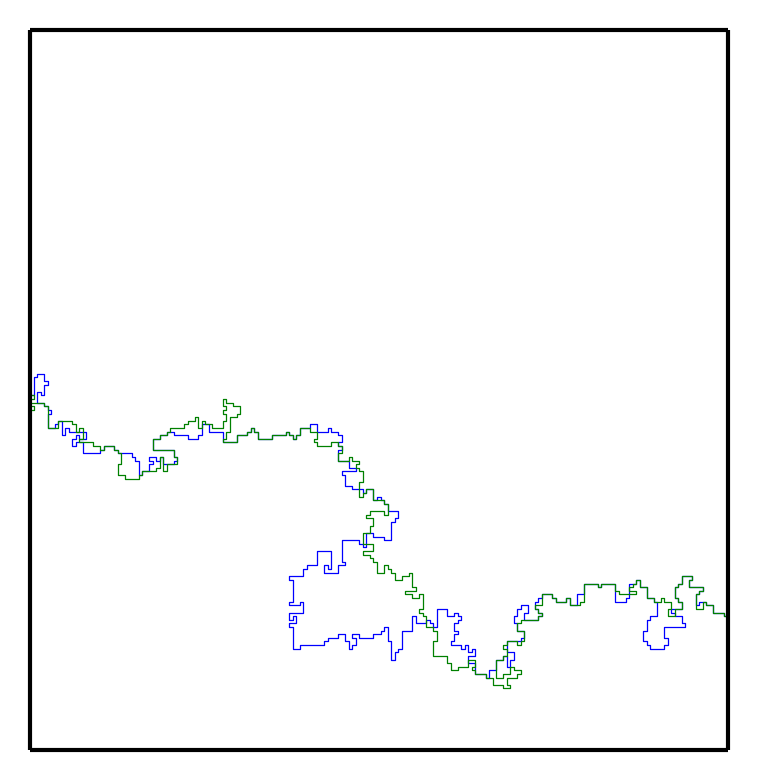
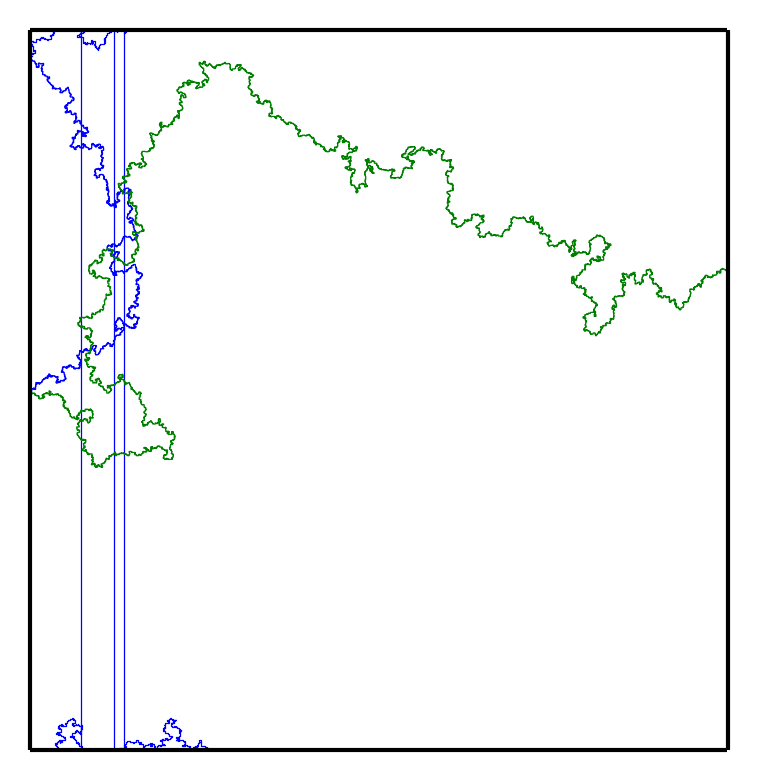
Update plot code

diff --git a/craw2binned.c b/craw2binned.c
@@ -193,7 +193,7 @@ if (spit_out_minmax==1) {
 	return(0);
 }
 
-//printf("#Info: parameters nbins, min, max: %i %g %g\n", nbins, min, max);
+// printf("#Info: parameters nbins, min, max: %i %g %g\n", nbins, min, max);
 
 if ((min<0) || (max<0)) {
 	fprintf(stderr, "min<0 or max<0, %g %g\n", min, max);
@@ -205,9 +205,9 @@ double b=pow(10,1/((double)nbins));
 smin=pow(b,(int)(log(min)/log(b)))/sqrt(sqrt(b));
 int kmax=(int)(log(max/smin)/log(b))+1;
 
-//printf("#Info: parameters b, smin, kmax: %g %g %i\n", b, smin, kmax);
+// printf("#Info: parameters b, smin, kmax: %g %g %i\n", b, smin, kmax);
 
-#define MALLOC(a,n) {if ((a=malloc(sizeof(*a)*(n)))==NULL) { fprintf(stderr, "Not enough memory for %s, requested %i bytes, %i items of size %i. %i::%s\n", #a, (int)(sizeof(*a)*n), n, (int)sizeof(*a), errno, strerror(errno)); exit(EXIT_FAILURE); }}
+#define MALLOC(a,n) if ((a=malloc(sizeof(*a)*(n)))==NULL) { fprintf(stderr, "Not enough memory for %s, requested %i bytes, %i items of size %i. %i::%s\n", #a, (int)(sizeof(*a)*n), n, (int)sizeof(*a), errno, strerror(errno)); exit(EXIT_FAILURE); }
 
 
 MALLOC(n, kmax);
@@ -295,12 +295,12 @@ if (N==0) N=-1;
 
 if( force_last_bin_correction){
 
-	fprintf(stderr,	"WARNING: option -t caused first and last bin to be\n"
-			"				 corrected (they are smaller). This assumes that\n"
-			"				 the data has been truncated or filtered.\n");
-	fprintf(stdout,	"# WARNING: option -t caused first and last bin to be\n"
-			"#					corrected (they are smaller). This assumes that\n"
-			"#			the data has been truncated or filtered.\n");
+	// fprintf(stderr,	"WARNING: option -t caused first and last bin to be\n"
+	// 		"				 corrected (they are smaller). This assumes that\n"
+	// 		"				 the data has been truncated or filtered.\n");
+	// fprintf(stdout,	"# WARNING: option -t caused first and last bin to be\n"
+	// 		"#					corrected (they are smaller). This assumes that\n"
+	// 		"#			the data has been truncated or filtered.\n");
 
 	for(i=0;i<=kmax;i++) if(n[i]!=0){
 		s[i]=min;

diff --git a/BD_LERW_stats.py b/BD_LERW_stats.py
@@ -34,6 +34,19 @@ ax.set_ylim(0, Circ - 1)
 ax.get_xaxis().set_visible(False)
 ax.get_yaxis().set_visible(False)
 
+def plotit(LERW, c, lw):
+	Plots = []
+	prevInd = 0
+	for pos in range(len(LERW)):
+		x, y = LERW[pos]
+		if (x == Length) or (x == 0) or (y == Circ) or (y == Circ) or (y == 0):
+			Plots.append(LERW[prevInd:pos])
+			prevInd = pos
+		pos += 1
+
+	for plot in Plots:
+		plt.plot(*zip(*plot), color=c, linewidth=lw)
+
 # Generate a randomwalk
 while True:
 	s += 1
@@ -78,7 +91,8 @@ while pos < len(lerw):
 	lcpy[x][y] -= 1
 	pos += 1
 
-plt.plot(*zip(*lerw), color='b', linewidth=0.3)
+# plt.plot(*zip(*lerw), color='b', linewidth=0.3)
+plotit(lerw, 'b', 0.3)
 
 
 # Loop erasure (tranversal from right to left)
@@ -99,7 +113,8 @@ while pos < len(lerw):
 	lcpy[x][y] -= 1
 	pos += 1
 
-plt.plot(*zip(*lerw), color='g', linewidth=0.3)
+# plt.plot(*zip(*lerw), color='g', linewidth=0.3)
+plotit(lerw, 'g', 0.3)
 
 # Plot random walk
 plt.savefig( "plots/"+__file__[:-3]+".png", bbox_inches="tight", dpi=dpi)

diff --git a/BD_LERW_area.py b/BD_LERW_area.py
@@ -13,20 +13,22 @@ import matplotlib.pyplot as plt
 from LERW import LERW
 
 n = 1
-length = 200
+length = 20
 areas = [] # list of intersections' enclosed area
 
 randomwalk = LERW()
-randomwalk.gen_bidirectional(realizations=n, Length=length, Circ=200)
-LERW_LeftRight = randomwalk.trajectories_leftright
-LERW_RightLeft = randomwalk.trajectories_rightleft
-
+randomwalk.gen_bidirectional(realizations=n, Length=length, Circ=20)
+LERW_LeftRight = randomwalk.trajectories_leftright[0]
+LERW_RightLeft = randomwalk.trajectories_rightleft[0]
 # Calc: enclosed area between the intersections of bidirectional random walks
 
 
-# for i in range(length):
-# 	for x in lerwlr:
-# 		if x[1] == i:
+for i in range(length):
+    lr = [x for j, x in enumerate(LERW_LeftRight) if x[0] == i]
+    rl = [x for j, x in enumerate(LERW_RightLeft) if x[0] == i]
+    
+    if len(lr) > 1 or len(rl) > 1:
+        print("At {}:\n\tleft-right: {}, \n\tright-left: {}".format(i, lr, rl))
 #
 # print areas
 

diff --git a/LERW.py b/LERW.py
@@ -235,11 +235,15 @@ class LERW:
 		ax.get_xaxis().set_visible(False)
 		ax.get_yaxis().set_visible(False)
 
+		Plots = []
+		prevInd = 0
 		for pos in range(len(LERW)):
 			x, y = LERW[pos]
 			if (x == Length) or (x == 0) or (y == Circ) or (y == Circ) or (y == 0):
-				LERW[pos] = (np.nan, np.nan)
+				Plots.append(LERW[prevInd:pos])
+				prevInd = pos
 			pos += 1
 
-		plt.plot(*zip(*LERW), color=c, linewidth=0.2)
+		for plot in Plots:
+			plt.plot(*zip(*plot), color=c, linewidth=0.2)
 		plt.savefig(figname, bbox_inches='tight', dpi=kwargs.get('dpi', 300))
